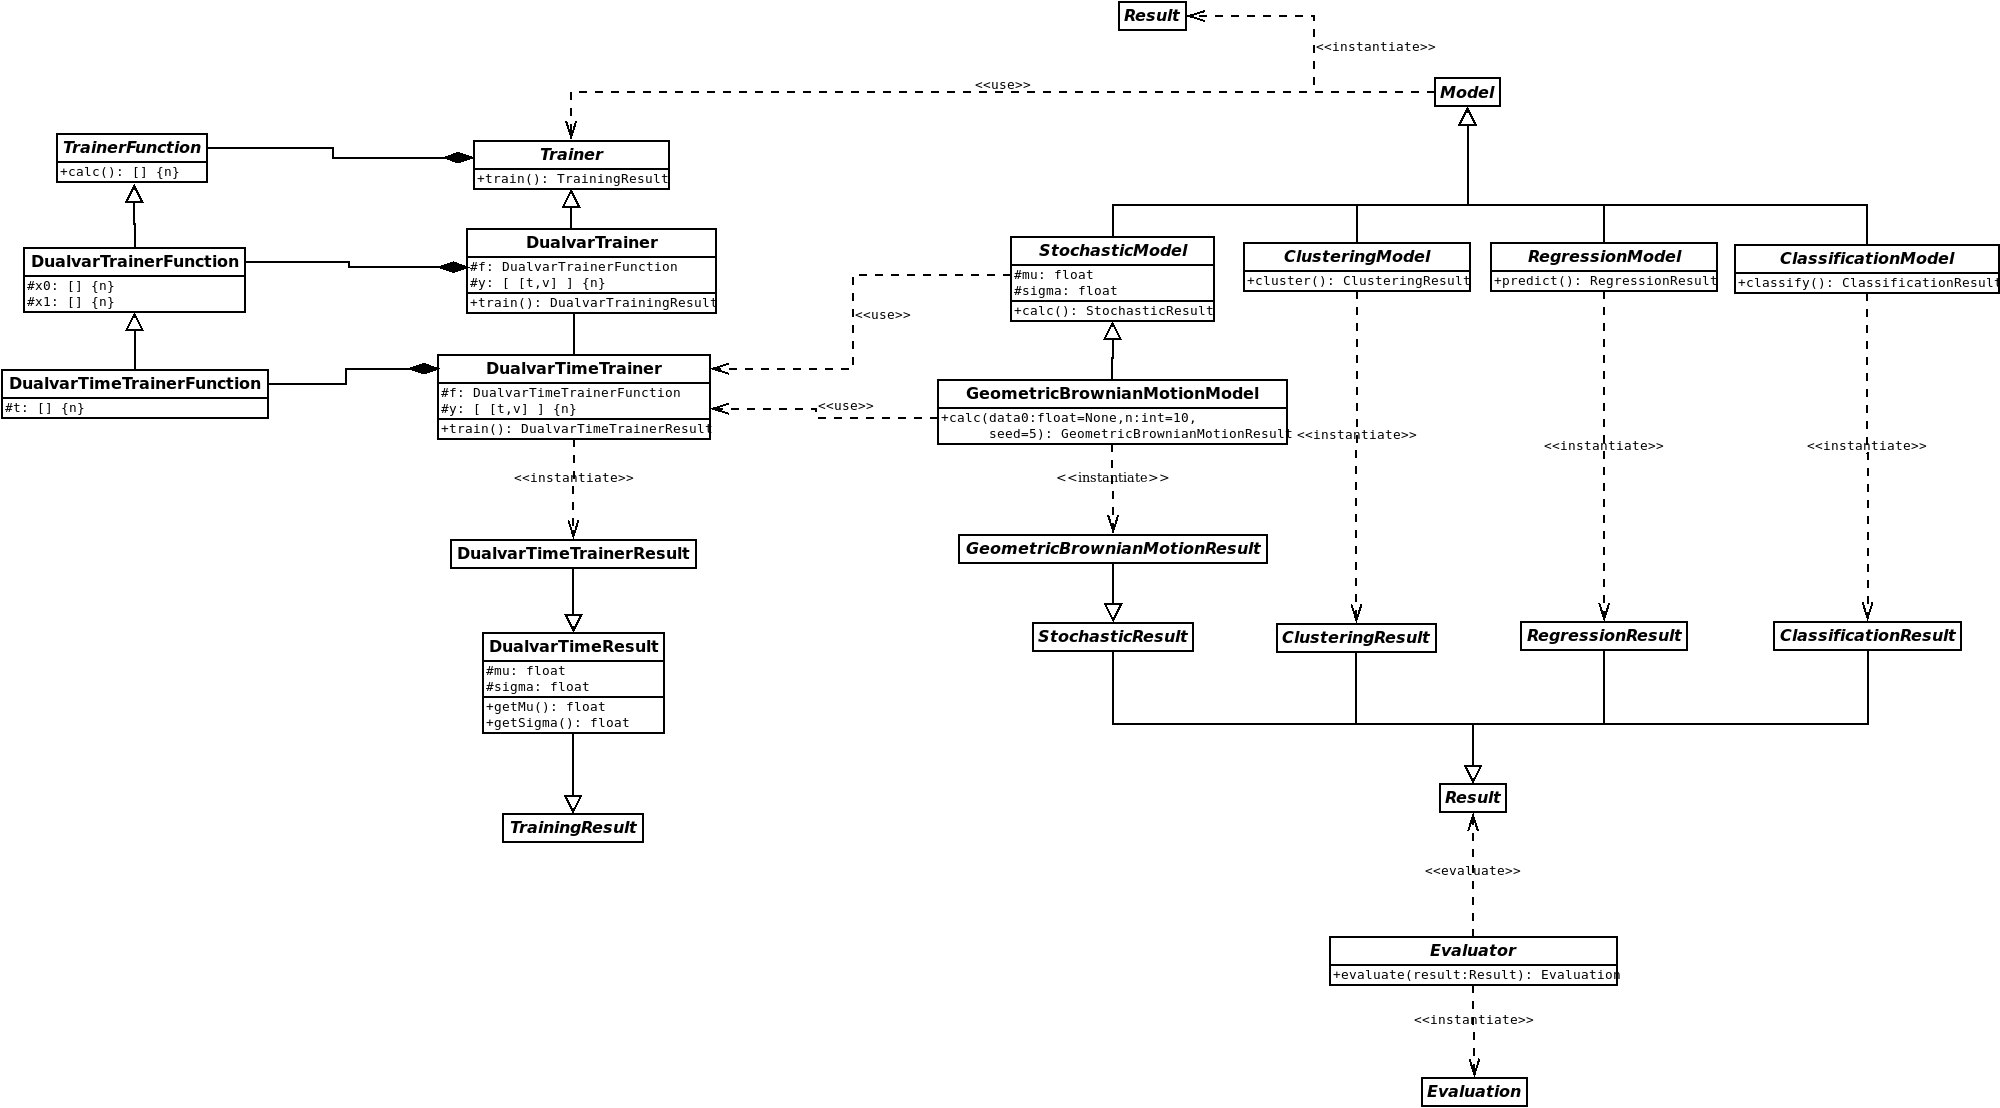
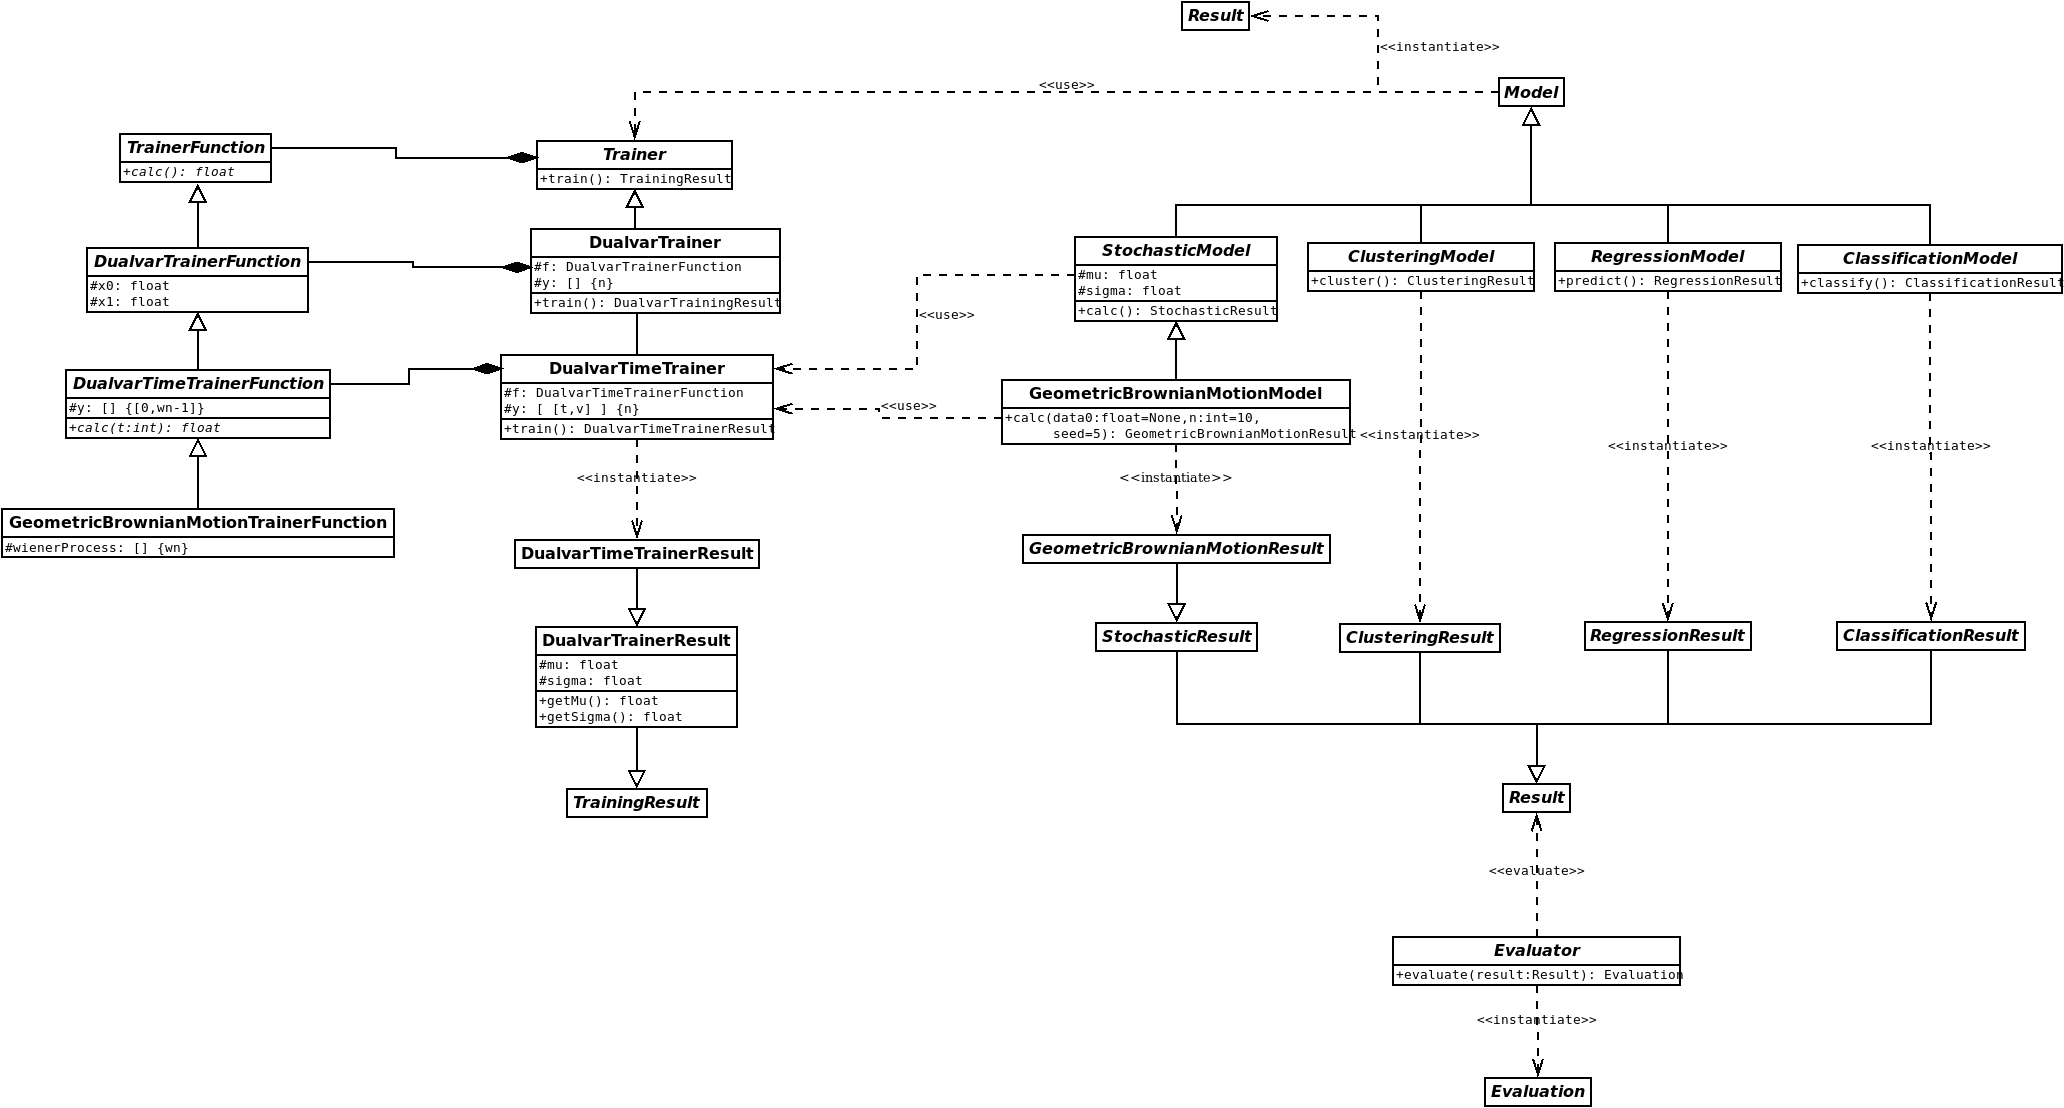
Massive updated. TODO: Finish GeometricBrownianMotion redesign and make test fit new mechanics

diff --git a/src/trainers/functions/geometric_brownian_motion_trainer_function.py b/src/trainers/functions/geometric_brownian_motion_trainer_function.py
@@ -1,0 +1,53 @@
+from trainers.functions.dualvar_time_trainer_function \
+    import DualvarTimeTrainerFunction, DualvarTimeTrainerFunctionException
+from models.geometric_brownian_motion import GeometricBrownianMotion
+
+
+class GeometricBrownianMotionTrainerFunctionException(
+        DualvarTimeTrainerFunctionException):
+    pass
+
+
+class GeometricBrownianMotionTrainerFunction(DualvarTimeTrainerFunction):
+    # ---  I N I T  --- #
+    # ----------------- #
+    def __init__(self, x0=None, x1=None, y=None):
+        super().__init__(x0=x0, x1=x1, y=y)
+
+        # Checks
+        if y is None or len(y) < 1:
+            raise GeometricBrownianMotionTrainerFunctionException(
+                'GeometricBrownianMotionTrainerFunction can not be built '
+                'if y\n'
+                'is not a collection with at least 1 element'
+            )
+
+        # Assigns
+        self.model = GeometricBrownianMotion(mu=x0, sigma=x1)
+        self.wienerProcess = self.model.computeWienerProcess(
+            n=len(y),
+            seed=5
+        )
+
+    # ---  C A L C  --- #
+    # ----------------- #
+    def calc(self, t=None):
+        # Check
+        if not isinstance(t, int):
+            raise GeometricBrownianMotionTrainerFunctionException(
+                'GeometricBrownianMotionTrainerFunction can not calculate if '
+                't is not a int as time index'
+            )
+        if len(self.wienerProcess) <= t:
+            raise GeometricBrownianMotionTrainerFunctionException(
+                'GeometricBrownianMotionTrainerFunction can not calculate if '
+                't ({t}) is not smaller than length of wienerProcess ({wn})'
+                .format(wn=len(self.wienerProcess))
+            )
+
+        # Calculate
+        return self.model._calc(
+            data0=self.y[0],
+            t=t,
+            wienerProcess=self.wienerProcess
+        )

diff --git a/src/trainers/dualvar_time_trainer.py b/src/trainers/dualvar_time_trainer.py
@@ -1,19 +1,20 @@
 from math import isnan
 from decimal import Decimal
-from trainers.trainer import TrainerException
-from trainers.trainer import Trainer
+from trainers.dualvar_trainer import DualvarTrainer, DualvarTrainerException
+from trainers.functions.dualvar_time_trainer_function import \
+    DualvarTimeTrainerFunction
 
 
-class DualvarTimeTrainerException(TrainerException):
+class DualvarTimeTrainerException(DualvarTrainerException):
     pass
 
 
-class DualvarTimeTrainer(Trainer):
+class DualvarTimeTrainer(DualvarTrainer):
     # ---  INIT  --- #
     # -------------- #
     def __init__(self, f=None,  y=None):
         # Checks
-        if f is None:
+        if f.__class__ is not DualvarTimeTrainerFunction.__class__:
             raise DualvarTimeTrainerException(
                 'Can not initialize {classname} with None '
                 'dualvar function'
@@ -37,9 +38,6 @@ class DualvarTimeTrainer(Trainer):
                 '\t[t, v] as first and second elements'
                 .format(classname=self.__class__.__name__)
             )
-
-        # Super init
-        super(DualvarTimeTrainer, self).__init__()
 
         # Assigns
         self.f = f
@@ -145,8 +143,13 @@ class DualvarTimeTrainer(Trainer):
 
         # Error measure
         error = 0.0
+        dualvarTimeTrainerFunction = self.f(
+            x0=float(x0),
+            x1=float(x1),
+            y=[v for [t, v] in self.y]
+        )
         for [t, v] in self.y:
-            prediction = self.f(t, x0, x1)
+            prediction = dualvarTimeTrainerFunction.calc(t=t)
             error += (prediction - v)**2
         return error
 

diff --git a/src/trainers/functions/dualvar_trainer_function.py b/src/trainers/functions/dualvar_trainer_function.py
@@ -1,0 +1,34 @@
+from trainers.functions.trainer_function import TrainerFunction, \
+    TrainerFunctionException
+
+
+class DualvarTrainerFunctionException(TrainerFunctionException):
+    pass
+
+
+class DualvarTrainerFunction(TrainerFunction):
+    # ---  INIT  --- #
+    # -------------- #
+    def __init__(self, x0=None, x1=None):
+        self.validateX0X1(x0, x1)
+        self.x0 = x0
+        self.x1 = x1
+
+    # ---  VALIDATION  --- #
+    # -------------------- #
+    @classmethod
+    def validateX0X1(cls, x0, x1):
+        cls._validateX0X1(x0, 'x0')
+        cls._validateX0X1(x1, 'x1')
+
+    @classmethod
+    def _validateX0X1(cls, var=None, name=None):
+        if name is None:
+            raise DualvarTrainerFunctionException(
+                'Can not _validateX0X1 with None name'
+            )
+        if not isinstance(var, float):
+            raise DualvarTrainerFunctionException(
+                'Can not _validateX0X1 if var {name} is not float '
+                .format(name=name)
+            )

diff --git a/src/trainers/dualvar_trainer.py b/src/trainers/dualvar_trainer.py
@@ -1,0 +1,33 @@
+from trainers.trainer import TrainerException, Trainer
+from trainers.functions.dualvar_trainer_function import DualvarTrainerFunction
+
+
+class DualvarTrainerException(TrainerException):
+    pass
+
+
+class DualvarTrainer(Trainer):
+    # ---  INIT  --- #
+    # -------------- #
+    def __init__(self,  f=None, y=None):
+        # Checks
+        if f is not DualvarTrainerFunction:
+            raise DualvarTrainerException(
+                'You need a DualvarTrainerFunction f to build a DualvarTrainer'
+            )
+
+        if y is None or len(y) < 1 or len(y[0]) < 2:
+            raise DualvarTrainerException(
+                'You need at least one collection with 1 element '
+                'as y argument to build a DualvarTrainer.\n'
+            )
+
+        # Assigns
+        self.f = f
+        self.y = y
+
+    # ---  TRAIN  --- #
+    # --------------- #
+    def train(self):
+        pass  # TODO
+

diff --git a/src/trainers/functions/dualvar_time_trainer_function.py b/src/trainers/functions/dualvar_time_trainer_function.py
@@ -1,0 +1,22 @@
+from trainers.functions.dualvar_trainer_function \
+    import DualvarTrainerFunction, DualvarTrainerFunctionException
+
+
+class DualvarTimeTrainerFunctionException(DualvarTrainerFunctionException):
+    pass
+
+
+class DualvarTimeTrainerFunction(DualvarTrainerFunction):
+    # ---  INIT  --- #
+    # -------------- #
+    def __init__(self, x0=None, x1=None, y=None):
+        super().__init__(x0=x0, x1=x1)
+        self.y = y
+
+    # ---  C A L C  --- #
+    # ----------------- #
+    def calc(self):
+        raise DualvarTimeTrainerFunctionException(
+            'DualvarTimeTrainerFunction is an abstract class which "calc" '
+            'method can not be used'
+        )

diff --git a/src/tests/custom/test_dualvar_time_trainer.py b/src/tests/custom/test_dualvar_time_trainer.py
@@ -1,5 +1,7 @@
 from trainers.dualvar_time_trainer import DualvarTimeTrainer
-from models.geometric_brownian import GeometricBrownianMotion
+from trainers.functions.geometric_brownian_motion_trainer_function import \
+    GeometricBrownianMotionTrainerFunction
+from models.geometric_brownian_motion import GeometricBrownianMotion
 import time
 import sys
 import pandas as pd
@@ -52,7 +54,7 @@ if __name__ == '__main__':
 
     # Instantiate trainer
     dvtTrainer = DualvarTimeTrainer(
-        f=dualvarTimeFunction,
+        f=GeometricBrownianMotionTrainerFunction,
         y=dualvarTimeY
     )
 

diff --git a/src/trainers/functions/trainer_function.py b/src/trainers/functions/trainer_function.py
@@ -1,0 +1,15 @@
+from trainers.trainer import TrainerException
+
+
+class TrainerFunctionException(TrainerException):
+    pass
+
+
+class TrainerFunction:
+    # --- ABSTRACT FUNCTIONS --- #
+    # -------------------------- #
+    def calc(self):
+        raise TrainerFunctionException(
+            'TrainerFunction is an abstract class which "calc" method can not '
+            'be used'
+        )

diff --git a/src/trainers/trainer.py b/src/trainers/trainer.py
@@ -3,4 +3,10 @@ class TrainerException(Exception):
 
 
 class Trainer:
-    pass
+    # --- ABSTRACT FUNCTIONS --- #
+    # -------------------------- #
+    def train(self):
+        # Must return a TrainingResult
+        raise TrainerException(
+            'Trainer is an abstract class which "train" method can not be used'
+        )

diff --git a/src/tests/custom/test_drift_volatility_trainer.py b/src/tests/custom/test_drift_volatility_trainer.py
@@ -1,5 +1,5 @@
 from trainers.drift_volatility_trainer import DriftVolatilityTrainer
-from models.geometric_brownian import GeometricBrownianMotion
+from models.geometric_brownian_motion import GeometricBrownianMotion
 import time
 import sys
 import pandas as pd

diff --git a/src/tests/custom/test_geometric_brownian.py b/src/tests/custom/test_geometric_brownian.py
@@ -3,7 +3,7 @@ import numpy as np
 import pandas as pd
 import matplotlib.pyplot as plt
 
-from models.geometric_brownian import GeometricBrownianMotion
+from models.geometric_brownian_motion import GeometricBrownianMotion
 
 
 def generateTestData(n=10):
